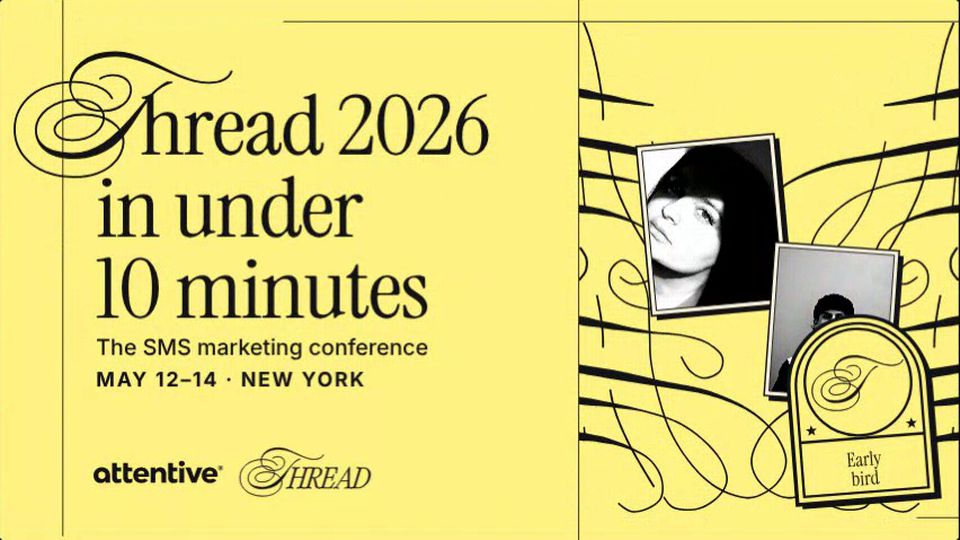
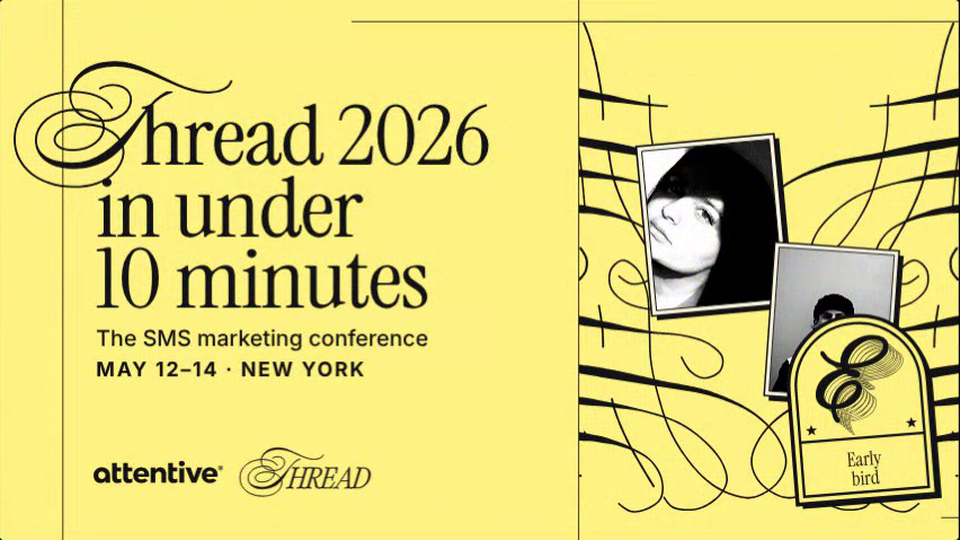
Conference Post Generator: 3D calligraphic letter in badges, tighter headline leading
Claude-Session: https://claude.ai/code/session_01AHeBdzDs1sAKkVKYb3xsdt

diff --git a/conference-post-generator/index.html b/conference-post-generator/index.html
@@ -5,7 +5,7 @@
 <meta name="viewport" content="width=device-width, initial-scale=1, viewport-fit=cover">
 <title>Conference Post Generator</title>
 <link rel="preconnect" href="https://fonts.googleapis.com">
-<link href="https://fonts.googleapis.com/css2?family=Instrument+Serif:ital@0;1&family=Inter:wght@400;500;600;700&display=swap" rel="stylesheet">
+<link href="https://fonts.googleapis.com/css2?family=Instrument+Serif:ital@0;1&family=Pinyon+Script&family=Playfair+Display:ital,wght@1,700&family=Inter:wght@400;500;600;700&display=swap" rel="stylesheet">
 <style>
 :root{
   --bg:#0e0e0e; --panel:#171717; --line:#2a2a2a; --text:#f3f2ea; --muted:#9a998d;
@@ -421,6 +421,17 @@ function star(ctx, cx, cy, r) {
   ctx.beginPath(); for (let i = 0; i < 10; i++) { const a = -Math.PI / 2 + i * Math.PI / 5, rr = i % 2 ? r * 0.42 : r; i ? ctx.lineTo(cx + rr * Math.cos(a), cy + rr * Math.sin(a)) : ctx.moveTo(cx + rr * Math.cos(a), cy + rr * Math.sin(a)); }
   ctx.closePath(); ctx.fill();
 }
+/* a 3D calligraphic capital: yellow extrusion with hairline contours behind, the letter itself in heavy black on the front */
+let LETTER_FONT = "'Pinyon Script', 'Instrument Serif', serif";
+function drawLetter3D(ctx, ch, cx, cy, size, ink, side) {
+  ctx.save(); ctx.font = size + 'px ' + LETTER_FONT; ctx.textAlign = 'center'; ctx.textBaseline = 'alphabetic'; setLS(ctx, 0);
+  const m = ctx.measureText(ch), depth = size * 0.15, steps = Math.max(4, Math.round(depth / 6)), hair = Math.max(1, size * 0.004);
+  const x0 = cx - (m.actualBoundingBoxRight - m.actualBoundingBoxLeft) / 2 - depth * 0.35, y0 = cy + (m.actualBoundingBoxAscent - m.actualBoundingBoxDescent) / 2 - depth * 0.35;
+  ctx.lineJoin = 'round'; ctx.strokeStyle = ink; ctx.fillStyle = side;
+  for (let k = steps; k >= 1; k--) { const o = depth * k / steps; ctx.lineWidth = hair; ctx.fillText(ch, x0 + o, y0 + o); ctx.strokeText(ch, x0 + o, y0 + o); }
+  ctx.fillStyle = ink; ctx.lineWidth = size * 0.034; ctx.fillText(ch, x0, y0); ctx.strokeText(ch, x0, y0);
+  ctx.restore();
+}
 /* h = badge height, centred on cx,cy. Emblem circle sits on the divider like the Commerce Council reference */
 function drawBadge(ctx, th, shape, cx, cy, h, rot, label, shadow) {
   const w = h * SHAPE_RATIO[shape], x = -w / 2, y = -h / 2, ink = DARK, lw = h * 0.014;
@@ -430,9 +441,8 @@ function drawBadge(ctx, th, shape, cx, cy, h, rot, label, shadow) {
   const outer = badgePath(shape, x, y, w, h); ctx.fill(outer); ctx.lineWidth = lw * 1.5; ctx.stroke(outer);
   const d = h * 0.04; ctx.lineWidth = lw; ctx.stroke(badgePath(shape, x + d, y + d, w - 2 * d, h - 2 * d));
   const ecy = y + h * 0.36, er = Math.min(h * 0.29, w * 0.4), dv = y + h * 0.665;
-  ctx.beginPath(); ctx.arc(0, ecy, er, 0, TAU); ctx.stroke();
-  ctx.save(); ctx.beginPath(); ctx.arc(0, ecy, er - lw, 0, TAU); ctx.clip();
-  const k = (er * 1.75) / 1587; drawSwash(ctx, -er * 0.875, ecy - 918 * k / 2, k, ink, 0); ctx.restore();
+  const first = (String(label || '').match(/[A-Za-z0-9]/) || ['T'])[0].toUpperCase();
+  drawLetter3D(ctx, first, 0, ecy + h * 0.01, h * 0.54, ink, th.accent);
   ctx.save(); ctx.clip(badgePath(shape, x + d, y + d, w - 2 * d, h - 2 * d)); ctx.beginPath(); ctx.moveTo(x, dv); ctx.lineTo(x + w, dv); ctx.lineWidth = lw; ctx.stroke(); ctx.restore();
   ctx.fillStyle = ink; star(ctx, -w * 0.36, dv - h * 0.06, h * 0.032); star(ctx, w * 0.36, dv - h * 0.06, h * 0.032);
   const lines = String(label || '').split('\n').filter(Boolean).slice(0, 2), fs0 = h * (lines.length > 1 ? 0.105 : 0.125);
@@ -493,16 +503,16 @@ function headlineBlock(ctx, c, box, o) {
   const { fu, th, t, W } = c, lines = parseLines(S.headline), sw = S.swashT && /^T/i.test(lines[0].s);
   const w100 = lines.map((l, i) => measureSlide(ctx, (i === 0 && sw) ? l.s.slice(1) : l.s, 100, l.it) / 100);
   const subH = (S.sub ? 64 * fu : 0) + (S.date ? 64 * fu : 0);
-  const mxMin = o.mx != null ? o.mx : 0.0985 * W, extra = sw ? 0.99 : 0, stackAt = (fs) => (lines.length - 1) * fs + 0.7 * fs + (sw ? 0.54 * fs : 0) + 76 * fu + subH;
+  const mxMin = o.mx != null ? o.mx : 0.0985 * W, extra = sw ? 0.99 : 0, stackAt = (fs) => (lines.length - 1) * fs * 0.88 + 0.7 * fs + (sw ? 0.54 * fs : 0) + 76 * fu + subH;
   let fs = o.maxFs;
   for (; fs > 24; fs *= 0.97) {
     const mx = Math.max(mxMin, extra * fs + 0.015 * W), right = Math.max(...w100.map((w, i) => (i === 0 && sw ? 0.53 : 0) + w)) * fs + mx;
     if (right <= box.x + box.w && stackAt(fs) <= box.h) break;
   }
-  const mx = Math.max(mxMin, extra * fs + 0.015 * W), top = box.y + (box.h - stackAt(fs)) / 2 + (sw ? 0.54 * fs : 0), b1 = top + 0.7 * fs, fl = (i) => 2 * fu * sway(t, i * 0.8 + 0);
+  const LH = 0.88, mx = Math.max(mxMin, extra * fs + 0.015 * W), top = box.y + (box.h - stackAt(fs)) / 2 + (sw ? 0.54 * fs : 0), b1 = top + 0.7 * fs, fl = (i) => 2 * fu * sway(t, i * 0.8 + 0);
   if (sw) drawSwash(ctx, mx + 0.53 * fs - 1.52 * fs, b1 - 1.24 * fs + fl(0), fs * 0.285 / 172, th.fg, 0.012 * sway(t, 0));
-  lines.forEach((l, i) => slide(ctx, (i === 0 && sw) ? l.s.slice(1) : l.s, mx + (i === 0 && sw ? 0.53 * fs : 0), b1 + i * fs + fl(i), fs, l.it, th.fg));
-  return { mx, fs, bottom: b1 + (lines.length - 1) * fs + 36 * fu };
+  lines.forEach((l, i) => slide(ctx, (i === 0 && sw) ? l.s.slice(1) : l.s, mx + (i === 0 && sw ? 0.53 * fs : 0), b1 + i * fs * LH + fl(i), fs, l.it, th.fg));
+  return { mx, fs, bottom: b1 + (lines.length - 1) * fs * LH + 36 * fu };
 }
 
 function tHeadline(ctx, c) {
@@ -690,7 +700,7 @@ new URLSearchParams(location.hash.slice(1)).forEach((v, k) => {
   else if (k === 'filter') S.photoFilter = v; else if (k === 'photos') S.photoCount = +v;
 });
 addEventListener('resize', fit);
-Promise.all([document.fonts.load("172px 'Instrument Serif'"), document.fonts.load("italic 60px 'Instrument Serif'"), document.fonts.load('600 40px Inter'), document.fonts.load('700 40px Inter')]).catch(() => {}).then(() => { dirty = true; });
+Promise.all([document.fonts.load("172px 'Instrument Serif'"), document.fonts.load("italic 60px 'Instrument Serif'"), document.fonts.load('600 40px Inter'), document.fonts.load("100px 'Pinyon Script'"), document.fonts.load("italic 700 100px 'Playfair Display'"), document.fonts.load('700 40px Inter')]).catch(() => {}).then(() => { dirty = true; });
 syncUI(); fit(); requestAnimationFrame(frame);
 </script>
 </body>
